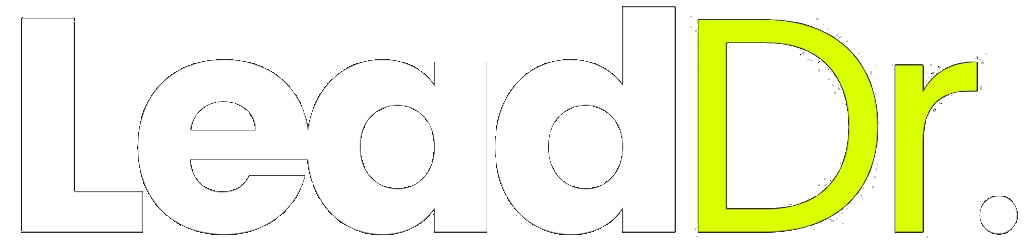
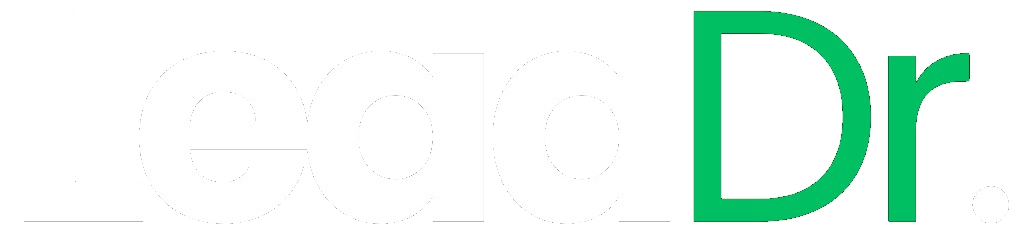
Use the official LeadDr wordmarks with transparent canvases.
Light and dark PNGs replace the gray-boxed exports so the mark sits cleanly on cream headers and the dark sidebar.

diff --git a/src/components/brand-logo.tsx b/src/components/brand-logo.tsx
@@ -5,11 +5,11 @@ type BrandLogoProps = {
 };
 
 const SRC = {
-  light: "/brand/leaddr-on-light.png",
-  dark: "/brand/leaddr-on-dark.png",
+  light: "/brand/leaddr-on-light.png?v=7",
+  dark: "/brand/leaddr-on-dark.png?v=7",
 } as const;
 
 export function BrandLogo({ on, size = "nav", className }: BrandLogoProps) {
   const cls = ["brand-logo", `brand-logo-${size}`, className].filter(Boolean).join(" ");
-  return <img src={SRC[on]} alt="LeadDr." width={2237} height={541} decoding="async" className={cls} />;
+  return <img src={SRC[on]} alt="LeadDr." width={1024} height={248} decoding="async" className={cls} />;
 }

diff --git a/src/app/globals.css b/src/app/globals.css
@@ -260,9 +260,11 @@ html:has([data-widget-root]) body > * {
   width: auto;
   max-width: 100%;
   height: clamp(22px, 4.5vw, 32px);
-  aspect-ratio: 2237 / 541;
+  aspect-ratio: 1012 / 246;
   object-fit: contain;
   object-position: left center;
+  background: transparent;
+  mix-blend-mode: normal;
 }
 
 .brand-logo-nav {
